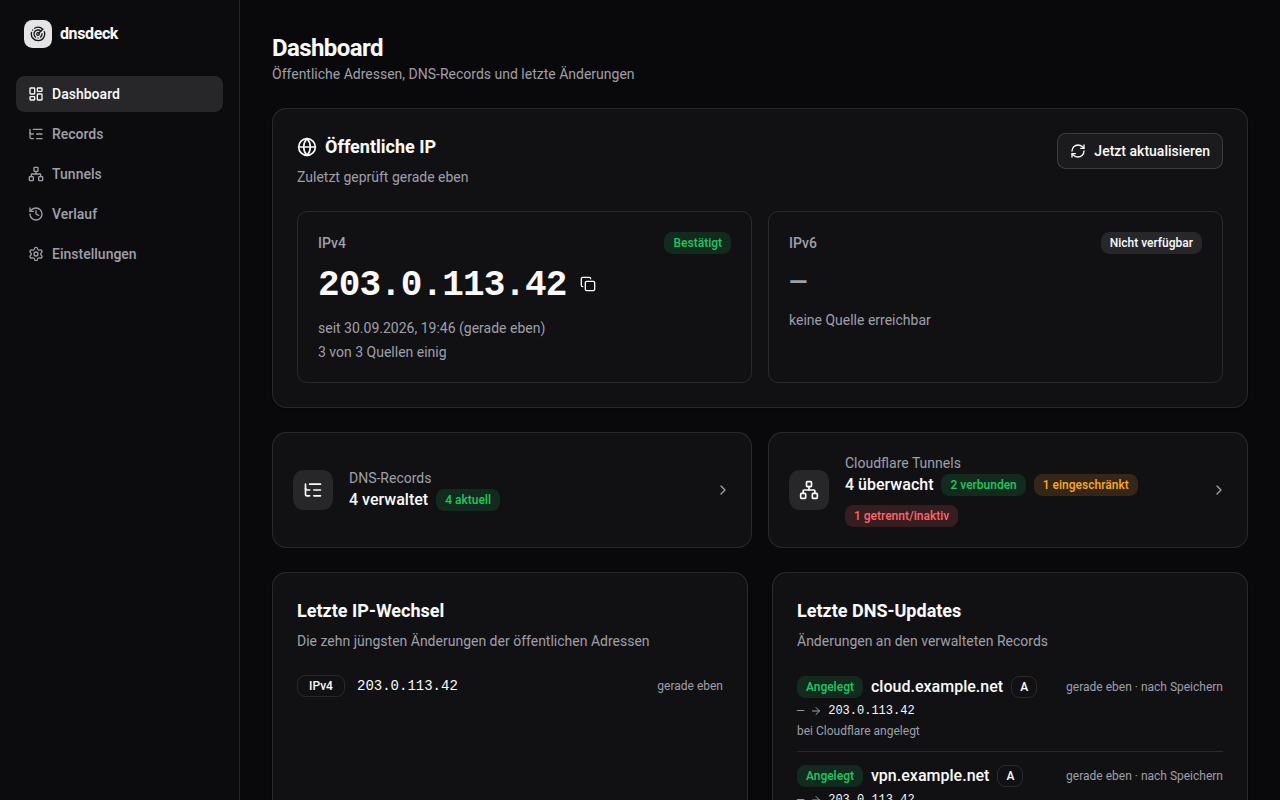
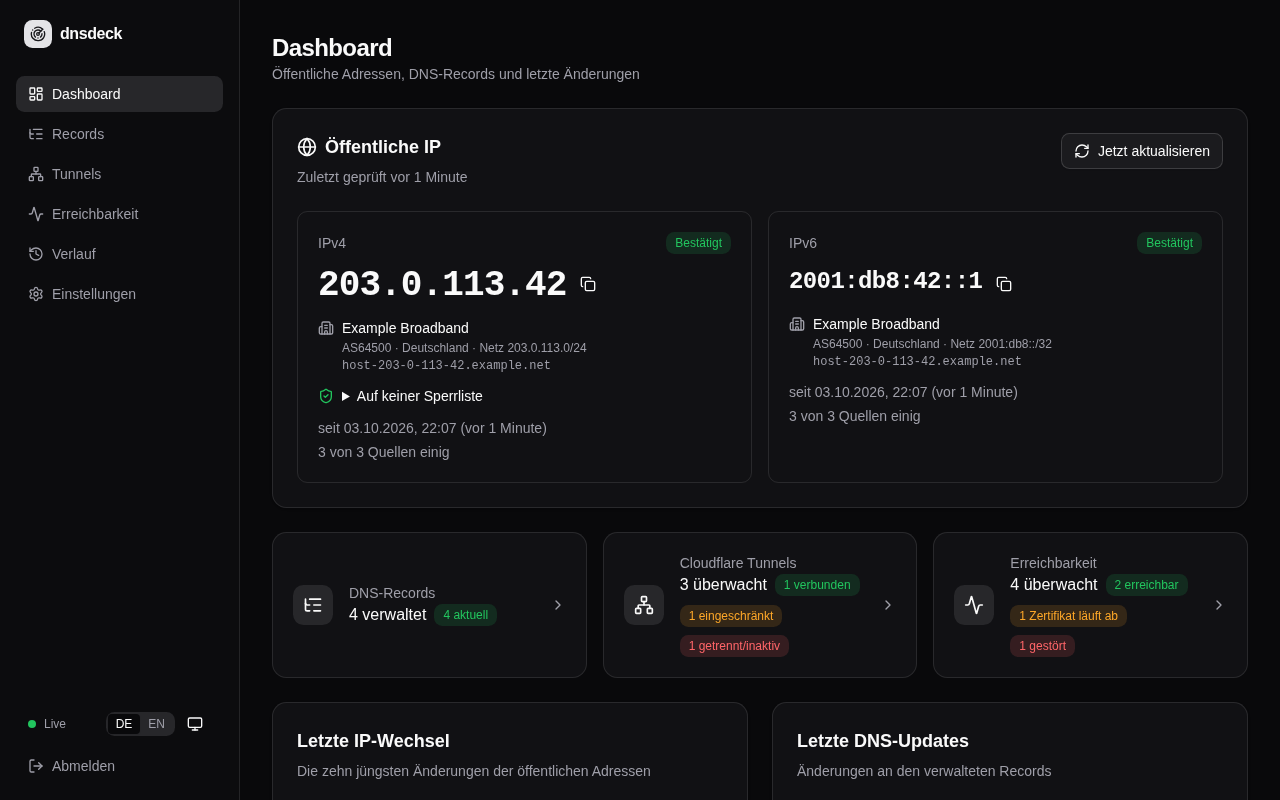
Fit für die Öffentlichkeit: Screenshots, Community-Dateien, Härtung
- Screenshots (EN/DE) neu, inkl. Erreichbarkeit; reproduzierbar per
  `cd e2e && npm run screenshots`, echte IP/Anbieter werden durch
  Dokumentationswerte ersetzt
- CONTRIBUTING.md, Issue-Formulare (Bug/Feature, Sicherheitslücken privat),
  PR-Vorlage, Dependabot (Go, npm, Actions, Docker)
- Compose: cap_drop ALL und no-new-privileges
- Warnung beim Start bei kurzem Klartext-APP_PASSWORD (< 12 Zeichen)
- isp-Test: fiktiver Hostname statt echt wirkendem Telekom-Namen

diff --git a/e2e/tests/screenshots.spec.ts b/e2e/tests/screenshots.spec.ts
@@ -1,0 +1,173 @@
+import { expect, test, type Page } from '@playwright/test'
+
+import { api, login } from './helpers'
+
+// Erzeugt die Bilder in docs/screenshots (EN) und docs/screenshots/de.
+// Nur auf Anfrage: `npm run screenshots` (läuft nicht in CI).
+//
+// Echte Werte der Testumgebung (öffentliche IP, Anbieter) werden durch
+// Dokumentationsadressen ersetzt, damit nie echte Daten im Repo landen.
+
+test.skip(!process.env.SCREENSHOTS, 'nur mit SCREENSHOTS=1 (npm run screenshots)')
+test.use({ colorScheme: 'dark', viewport: { width: 1280, height: 800 } })
+
+const IPV4 = '203.0.113.42'
+const IPV6 = '2001:db8:42::1'
+const ISP = {
+  asn: 64500,
+  name: 'Example Broadband',
+  prefix: '203.0.113.0/24',
+  country: 'DE',
+  registry: 'ripencc',
+  hostname: 'host-203-0-113-42.example.net',
+}
+
+const texts = {
+  en: { expires: 'Certificate expires on {date} (9 days left)', timeout: 'Timed out – no response' },
+  de: { expires: 'Zertifikat läuft am {date} ab (noch 9 Tage)', timeout: 'Zeitüberschreitung – keine Antwort' },
+}
+
+/** Status je Abschnitt, gezählt vom neuesten (0) rückwärts; since = Stunden im aktuellen Status. */
+const tunnelHistory = {
+  home: { since: 30, at: (i: number, r: string) => (i === (r === '24h' ? 31 : 9) ? 'down' : 'healthy') },
+  nas: { since: 3, at: (i: number, r: string) => (i < (r === '24h' ? 6 : 1) ? 'degraded' : 'healthy') },
+  backup: { since: 2, at: (i: number, r: string) => (i < (r === '24h' ? 4 : 1) ? 'down' : 'healthy') },
+}
+
+const days = (n: number) => new Date(Date.now() + n * 86_400_000).toISOString()
+
+/** Legt Beispieldaten an (einmal je Serverstart). */
+async function seed(page: Page) {
+  const names = ((await api<{ name: string }[]>(page, 'GET', '/api/records')).json ?? []).map((r) => r.name)
+  for (const [zone, name] of [
+    ['example.com', 'cloud.example.com'],
+    ['example.com', 'vpn.example.com'],
+    ['example.com', 'home.example.com'],
+    ['example.org', 'nas.example.org'],
+  ]) {
+    if (names.includes(name)) continue
+    const zones = (await api<{ id: string; name: string }[]>(page, 'GET', '/api/zones')).json
+    const zone_id = zones.find((z) => z.name === zone)!.id
+    await api(page, 'POST', '/api/records', { zone_id, name, type: 'A', proxied: name.startsWith('cloud'), ttl: 1, enabled: true })
+  }
+  const hooks = ((await api<{ name: string }[]>(page, 'GET', '/api/webhooks')).json ?? []).map((w) => w.name)
+  const base = { enabled: true, method: 'POST', headers: [], content_type: 'application/json' }
+  if (!hooks.includes('ntfy'))
+    await api(page, 'POST', '/api/webhooks', {
+      ...base,
+      name: 'ntfy',
+      url: 'https://ntfy.sh',
+      events: ['ip_change', 'update_failed', 'site_down', 'cert_expiring'],
+      body_template:
+        '{\n  "topic": {{json (env "WEBHOOK_NTFY_TOPIC")}},\n  "title": {{json .Title}},\n  "message": {{json .Message}},\n  "priority": {{.Priority}}\n}',
+    })
+  if (!hooks.includes('Telegram'))
+    await api(page, 'POST', '/api/webhooks', {
+      ...base,
+      name: 'Telegram',
+      url: 'https://api.telegram.org/bot${WEBHOOK_TELEGRAM_TOKEN}/sendMessage',
+      events: ['tunnel_status', 'site_down', 'site_recovered'],
+      body_template:
+        '{\n  "chat_id": {{json (env "WEBHOOK_TELEGRAM_CHAT_ID")}},\n  "text": {{json (printf "%s\\n%s" .Title .Message)}}\n}',
+    })
+}
+
+/** Ersetzt echte Werte in allen API-Antworten (außer dem Live-Stream). */
+async function anonymize(page: Page, lang: 'en' | 'de') {
+  const real = (await api<{ ipv4: { ip?: string }; ipv6: { ip?: string } }>(page, 'GET', '/api/ip')).json
+  const records = (await api<{ id: number; name: string }[]>(page, 'GET', '/api/records')).json
+  const rec = (name: string) => records.find((r) => r.name === name)?.id
+  const checked = new Date(Date.now() - 60_000).toISOString()
+  const expiry = days(9)
+  const probes = [
+    { id: 1, record_id: rec('cloud.example.com'), record_name: 'cloud.example.com', url: 'https://cloud.example.com/',
+      enabled: true, status: 'up', http_status: 200, latency_ms: 84, fail_count: 0,
+      tls_not_after: days(71), tls_issuer: "Let's Encrypt (E6)", tls_valid: true, last_checked_at: checked },
+    { id: 2, record_id: rec('vpn.example.com'), record_name: 'vpn.example.com', url: 'https://vpn.example.com/',
+      enabled: true, status: 'expiring', http_status: 302, latency_ms: 41, fail_count: 0,
+      message: texts[lang].expires.replace('{date}', expiry.slice(0, 10)),
+      tls_not_after: expiry, tls_issuer: "Let's Encrypt (R11)", tls_valid: true, last_checked_at: checked },
+    { id: 3, url: 'http://192.168.1.20:8123/', enabled: true, status: 'up', http_status: 200, latency_ms: 12,
+      fail_count: 0, last_checked_at: checked },
+    { id: 4, record_id: rec('nas.example.org'), record_name: 'nas.example.org', url: 'https://nas.example.org/',
+      enabled: true, status: 'down', fail_count: 3, message: texts[lang].timeout,
+      tls_not_after: days(40), tls_issuer: 'ZeroSSL ECC Domain Secure Site CA', tls_valid: true, last_checked_at: checked },
+  ]
+
+  await page.route(/\/api\/(?!events)/, async (route) => {
+    const path = new URL(route.request().url()).pathname
+    if (path === '/api/probes' && route.request().method() === 'GET') return route.fulfill({ json: probes })
+    const res = await route.fetch()
+    let body = await res.text()
+    if (path === '/api/tunnels') {
+      // Frischer Testserver hat keinen Verlauf – realistische Uptime-Balken einsetzen.
+      const o = JSON.parse(body)
+      for (const tn of o.tunnels) {
+        const pattern = tunnelHistory[tn.name as keyof typeof tunnelHistory]
+        if (!pattern) continue
+        for (const [range, u] of Object.entries(tn.uptime as Record<string, { buckets: string[] }>)) {
+          const n = u.buckets.length
+          const buckets = Array.from({ length: n }, (_, i) => pattern.at(n - 1 - i, range))
+          const up = buckets.filter((b) => b === 'healthy' || b === 'degraded').length
+          Object.assign(u, { buckets, observed: 1, percent: Math.round((up / n) * 1000) / 10 })
+        }
+        tn.status_since = new Date(Date.now() - pattern.since * 3600_000).toISOString()
+        if (tn.conns_active_at) tn.conns_active_at = tn.status_since
+      }
+      body = JSON.stringify(o)
+    }
+    if (path === '/api/ip') {
+      const s = JSON.parse(body)
+      s.ipv4.isp = ISP
+      s.ipv6 = { ...s.ipv4, ip: IPV6, isp: { ...ISP, prefix: '2001:db8::/32' }, blocklist: undefined, message: undefined }
+      body = JSON.stringify(s)
+    }
+    for (const [from, to] of [[real.ipv4.ip, IPV4], [real.ipv6.ip, IPV6]]) {
+      if (from) body = body.replaceAll(from, to!)
+    }
+    await route.fulfill({ response: res, body })
+  })
+}
+
+for (const lang of ['en', 'de'] as const) {
+  test.describe(lang, () => {
+    test.use({ locale: lang === 'de' ? 'de-DE' : 'en-US' })
+
+    test(`Screenshots ${lang}`, async ({ page }) => {
+      const dir = lang === 'de' ? '../docs/screenshots/de' : '../docs/screenshots'
+      await login(page)
+      await seed(page)
+      await anonymize(page, lang)
+      const shot = async (name: string) => {
+        await page.waitForTimeout(500) // Animationen abwarten
+        await page.screenshot({ path: `${dir}/${name}.png` })
+      }
+
+      await page.goto('/')
+      await expect(page.getByText(IPV4).first()).toBeVisible()
+      await expect(page.getByText(ISP.name).first()).toBeVisible()
+      await shot('dashboard')
+
+      await page.goto('/records')
+      await expect(page.getByText('cloud.example.com').first()).toBeVisible()
+      // Verbreitungsprüfung abwarten (der verzögerte Mock-Resolver braucht ~15 s)
+      await expect(page.locator('[data-slot=badge] .animate-spin')).toHaveCount(0, { timeout: 60_000 })
+      await shot('records')
+
+      await page.goto('/tunnels')
+      await expect(page.getByText('backup').first()).toBeVisible()
+      await shot('tunnels')
+
+      await page.goto('/erreichbarkeit')
+      await expect(page.getByText('https://cloud.example.com/').first()).toBeVisible()
+      await shot('checks')
+
+      await page.goto('/einstellungen')
+      const edit = lang === 'de' ? 'Telegram bearbeiten' : 'Edit Telegram'
+      await page.getByRole('button', { name: edit }).click()
+      await expect(page.getByRole('dialog')).toBeVisible()
+      await page.locator('#wh-name').evaluate((el) => (el as HTMLInputElement).blur())
+      await shot('webhooks')
+    })
+  })
+}

diff --git a/cmd/server/main.go b/cmd/server/main.go
@@ -10,6 +10,7 @@ import (
 	"os/signal"
 	"path/filepath"
 	"slices"
+	"strings"
 	"syscall"
 	"time"
 
@@ -34,6 +35,9 @@ import (
 
 // version wird beim Release-Build per -ldflags "-X main.version=…" gesetzt.
 var version = "dev"
+
+// Kürzere Klartext-Passwörter werden beim Start mit einer Warnung gemeldet.
+const minPasswordLen = 12
 
 func main() {
 	if len(os.Args) > 1 && os.Args[1] == "healthcheck" {
@@ -165,6 +169,10 @@ func run() error {
 	probes.Notifier = dispatcher
 	probes.WarnDays = func() int { return settings.Get().TLSWarnDays }
 
+	if !strings.HasPrefix(cfg.AppPassword, "$2") && len(cfg.AppPassword) < minPasswordLen {
+		log.Warn(fmt.Sprintf("APP_PASSWORD ist kürzer als %d Zeichen – bitte ein langes, zufälliges Passwort verwenden",
+			minPasswordLen))
+	}
 	auth, err := api.NewAuth(cfg.AppPassword, st)
 	if err != nil {
 		return err

diff --git a/internal/isp/isp_test.go b/internal/isp/isp_test.go
@@ -51,14 +51,14 @@ func TestLookupIPv4(t *testing.T) {
 			},
 			"AS3320.asn.cymru.com": {"3320 | DE | ripencc | 1993-02-10 | DTAG Internet service provider operations, DE"},
 		},
-		ptr: map[string][]string{"203.0.113.7": {"p5dd8a0b7.dip0.t-ipconnect.de."}},
+		ptr: map[string][]string{"203.0.113.7": {"host-203-0-113-7.example.net."}},
 	}
 	got, err := (&Lookup{Resolver: r, Timeout: time.Second}).Lookup(t.Context(), netip.MustParseAddr("203.0.113.7"))
 	if err != nil {
 		t.Fatal(err)
 	}
 	want := Info{ASN: 3320, Name: "DTAG Internet service provider operations", Prefix: "203.0.113.0/24",
-		Country: "DE", Registry: "ripencc", Hostname: "p5dd8a0b7.dip0.t-ipconnect.de"}
+		Country: "DE", Registry: "ripencc", Hostname: "host-203-0-113-7.example.net"}
 	if got != want {
 		t.Errorf("got %+v\nwant %+v", got, want)
 	}

diff --git a/CONTRIBUTING.md b/CONTRIBUTING.md
@@ -1,0 +1,38 @@
+# Contributing to dnsdeck
+
+Thanks for your interest! Bug reports, ideas and pull requests are welcome.
+
+## Reporting bugs and requesting features
+
+Use the [issue templates](https://github.com/mrcdlm/dnsdeck/issues/new/choose). Please include
+the dnsdeck version (shown under **Settings → System**) and relevant log lines
+(`docker compose logs dnsdeck`).
+
+**Never post secrets** – API tokens, `APP_PASSWORD`, webhook URLs or tokens. Security problems
+are reported privately as described in [SECURITY.md](SECURITY.md).
+
+## Development
+
+See [Development](README.md#development) in the README for setup, the Cloudflare API mock and
+how to run the checks. In short:
+
+```sh
+go vet ./... && go test ./...
+cd web && npm run lint && npm run build
+cd e2e && npm ci && npx playwright install chromium && npx playwright test
+```
+
+## Pull requests
+
+- Keep changes focused; open an issue first for larger features so we can agree on the approach.
+- Add or update tests – the Cloudflare API is always mocked, tests never touch real accounts.
+- Every user-facing text exists in English and German: server messages in
+  `internal/i18n/catalog.go`, interface texts in `web/src/locales/{en,de}.json`
+  (`npm run lint` checks that both locales have the same keys).
+- Secrets only ever come from environment variables – never from the database, logs or API
+  responses.
+- Add an entry under `[Unreleased]` in [CHANGELOG.md](CHANGELOG.md) for user-visible changes.
+- Notifications stay generic webhooks; services such as ntfy or Telegram are only presets in
+  the frontend, not separate code paths.
+
+By contributing you agree that your contribution is licensed under the [MIT license](LICENSE).

diff --git a/README.de.md b/README.de.md
@@ -49,9 +49,9 @@ eingebauter Weboberfläche und SQLite-Datenbank.
 - **Sicher voreingestellt** – läuft ohne Root-Rechte auf einem Distroless-Image; Geheimnisse
   nur per Umgebungsvariable; Login mit einem Passwort und Schutz vor Brute-Force-Versuchen.
 
-| Records | Tunnels | Webhooks |
-|---|---|---|
-| ![Records](docs/screenshots/de/records.png) | ![Tunnels](docs/screenshots/de/tunnels.png) | ![Webhooks](docs/screenshots/de/webhooks.png) |
+| Records | Tunnels | Erreichbarkeit | Webhooks |
+|---|---|---|---|
+| ![Records](docs/screenshots/de/records.png) | ![Tunnels](docs/screenshots/de/tunnels.png) | ![Erreichbarkeit](docs/screenshots/de/checks.png) | ![Webhooks](docs/screenshots/de/webhooks.png) |
 
 ## Schnellstart
 
@@ -84,7 +84,7 @@ Die Konfiguration erfolgt über Umgebungsvariablen in `.env`
 Intervalle, IP-Quellen und Webhooks werden in der Weboberfläche gepflegt.
 
 | Variable | Pflicht | Beschreibung |
-|---|---|---|
+|---|---|---|---|
 | `APP_PASSWORD` | ja | Passwort für die Weboberfläche (Klartext oder bcrypt-Hash, max. 72 Bytes) |
 | `CF_API_TOKEN` | für DNS/Tunnels | Cloudflare-API-Token, siehe unten |
 | `CF_ACCOUNT_ID` | für Tunnels | Cloudflare-Account-ID |
@@ -303,6 +303,9 @@ go vet ./... && go test ./...
 cd web && npm run lint && npm run build
 cd e2e && npm ci && npx playwright install chromium && npx playwright test
 ```
+
+Die Bilder in `docs/screenshots` entstehen mit `cd e2e && npm run screenshots`; echte
+IP-Adressen und Anbieterdaten werden dabei durch Dokumentationswerte ersetzt.
 
 Einen lokal gebauten Container starten: `cd deploy && docker compose -f docker-compose.dev.yml up -d --build`.
 

diff --git a/README.md b/README.md
@@ -47,9 +47,9 @@ container (≈ 30 MB, amd64 and arm64) with an embedded web interface and an SQL
 - **Secure by default** – runs as non-root on a distroless image; secrets only via
   environment variables; single-password login with rate limiting.
 
-| Records | Tunnels | Webhooks |
-|---|---|---|
-| ![Records](docs/screenshots/records.png) | ![Tunnels](docs/screenshots/tunnels.png) | ![Webhooks](docs/screenshots/webhooks.png) |
+| Records | Tunnels | Reachability | Webhooks |
+|---|---|---|---|
+| ![Records](docs/screenshots/records.png) | ![Tunnels](docs/screenshots/tunnels.png) | ![Reachability](docs/screenshots/checks.png) | ![Webhooks](docs/screenshots/webhooks.png) |
 
 ## Quick start
 
@@ -81,7 +81,7 @@ All configuration is done through environment variables in `.env`
 intervals, IP sources and webhooks are managed in the web interface.
 
 | Variable | Required | Description |
-|---|---|---|
+|---|---|---|---|
 | `APP_PASSWORD` | yes | Password for the web interface (plain text or bcrypt hash, max. 72 bytes) |
 | `CF_API_TOKEN` | for DNS / tunnels | Cloudflare API token, see below |
 | `CF_ACCOUNT_ID` | for tunnels | Cloudflare account ID |
@@ -290,6 +290,9 @@ go vet ./... && go test ./...
 cd web && npm run lint && npm run build
 cd e2e && npm ci && npx playwright install chromium && npx playwright test
 ```
+
+The screenshots in `docs/screenshots` are generated with `cd e2e && npm run screenshots`; real
+IP addresses and provider data are replaced by documentation values.
 
 To run a locally built container: `cd deploy && docker compose -f docker-compose.dev.yml up -d --build`.
 

diff --git a/CHANGELOG.md b/CHANGELOG.md
@@ -6,6 +6,13 @@ and this project adheres to [Semantic Versioning](https://semver.org/spec/v2.0.0
 
 ## [Unreleased]
 
+### Changed
+- Docker Compose: the container drops all Linux capabilities and runs with
+  `no-new-privileges` (dnsdeck needs neither). Take over these two lines into your own
+  `docker-compose.yml` when updating.
+- A warning is logged on start if a plain-text `APP_PASSWORD` is shorter than 12 characters.
+- Updated screenshots; contribution guide, issue templates and Dependabot configuration.
+
 ## [0.3.1] – 2026-10-03
 
 ### Fixed

diff --git a/.github/pull_request_template.md b/.github/pull_request_template.md
@@ -1,0 +1,11 @@
+## What does this change?
+
+<!-- Short description; link the issue if there is one (e.g. "Fixes #12"). -->
+
+## Checklist
+
+- [ ] `go vet ./...` and `go test ./...` pass
+- [ ] `npm run lint` and `npm run build` pass in `web/`
+- [ ] Tests added or updated (Cloudflare API mocked)
+- [ ] Texts in English and German (`internal/i18n/catalog.go`, `web/src/locales/`)
+- [ ] Entry under `[Unreleased]` in `CHANGELOG.md` for user-visible changes
